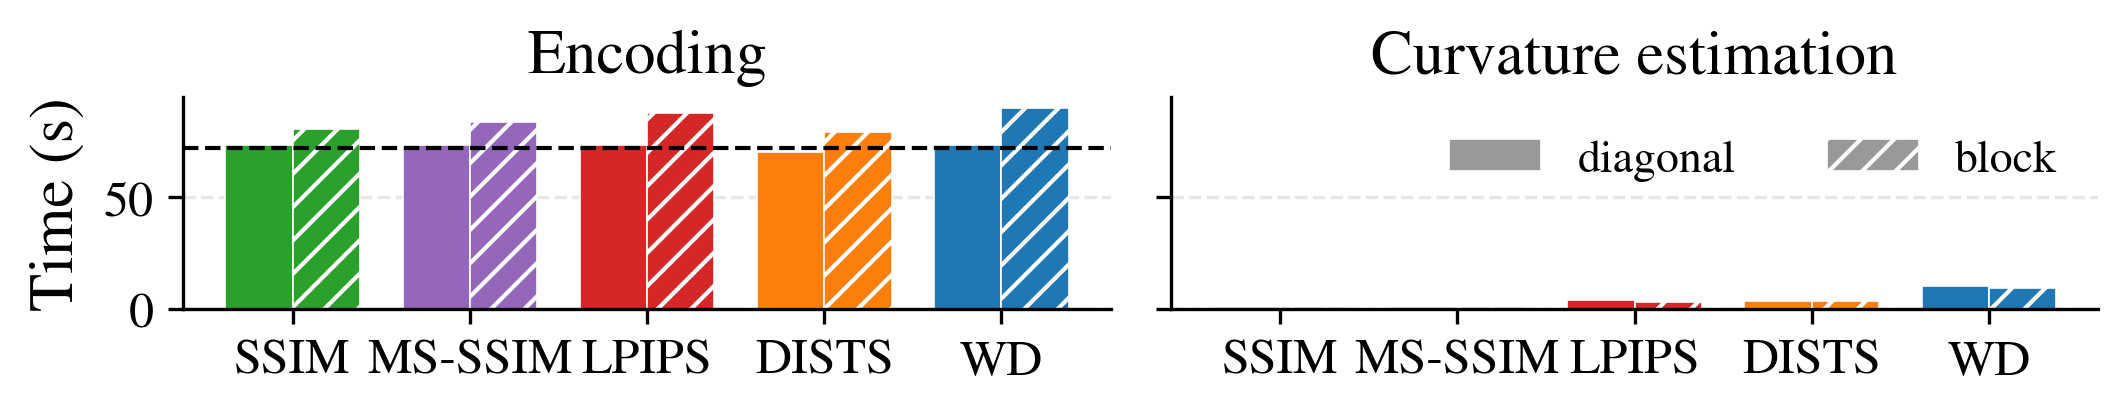
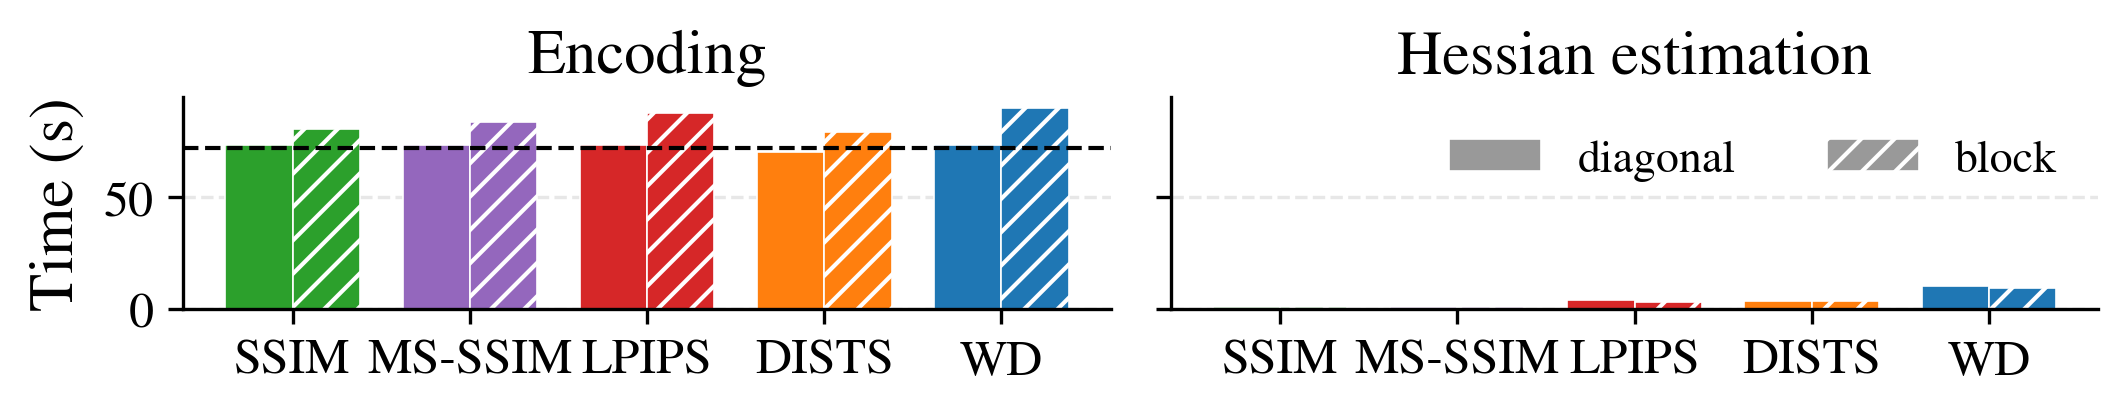
Sync with the paper sources (2026-09-23)

Changed region(s): [[0.6203, 0.058, 0.8994, 0.2029]]

diff --git a/experiments/complexity_bar.py b/experiments/complexity_bar.py
@@ -35,7 +35,7 @@ def mp(m, k): return M.get(f'{m}|{k}', np.nan)
 
 fig, (axL, axR) = plt.subplots(1, 2, figsize=(7.2, 1.5), sharey=True)
 x = np.arange(len(METS)); w = 0.38
-for ax, f, title in ((axL, enc, 'Encoding'), (axR, mp, 'Curvature estimation')):
+for ax, f, title in ((axL, enc, 'Encoding'), (axR, mp, 'Hessian estimation')):
     for i, k in enumerate(('diag', 'block')):
         ax.bar(x + (i - 0.5) * w, [f(m, k) for m in METS], w,
                color=[COL[m] for m in METS], hatch='' if k == 'diag' else '///',

diff --git a/experiments/probes_fig.py b/experiments/probes_fig.py
@@ -72,7 +72,7 @@ for met, (pre, full, key) in SER.items():
     if xs:
         ax.plot(xs, ys, marker='o', ms=3.5, lw=1.3, color=COL[met], label=NAME[met])
 ax.set_xscale('log')
-ax.set_xlabel('Curvature estimation time (s)', fontsize=9)
+ax.set_xlabel('Hessian estimation time (s)', fontsize=9)
 ax.set_ylabel('BD-rate (%)', fontsize=9)
 ax.grid(alpha=.3, ls='--', which='both'); ax.set_axisbelow(True); ax.tick_params(labelsize=8)
 for sp in ('top', 'right'):
